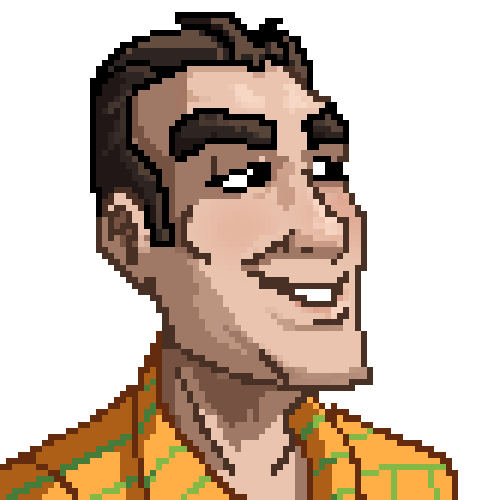
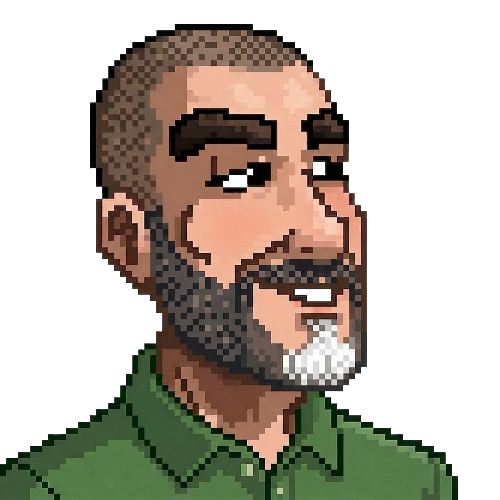
Replace disqus by gisqus

diff --git a/_includes/giscus.html b/_includes/giscus.html
@@ -1,0 +1,17 @@
+<section class="comments">
+    <script src="https://giscus.app/client.js"
+        data-repo="TheDigitalSpell/thedigitalspell.github.io"
+        data-repo-id="R_kgDOLaKEwA"
+        data-category="Announcements"
+        data-category-id="DIC_kwDOLaKEwM4C4jet"
+        data-mapping="pathname"
+        data-strict="0"
+        data-reactions-enabled="1"
+        data-emit-metadata="0"
+        data-input-position="bottom"
+        data-theme="preferred_color_scheme"
+        data-lang="es"
+        crossorigin="anonymous"
+        async>
+	</script>
+</section>

diff --git a/_layouts/post.html b/_layouts/post.html
@@ -92,7 +92,7 @@ post_class: post-template
             ================================================== -->
             <section>
             <div id="comments">                          
-                {% include disqus.html %} 
+                {% include giscus.html %} 
             </div>
             </section>
             <!--End Comments